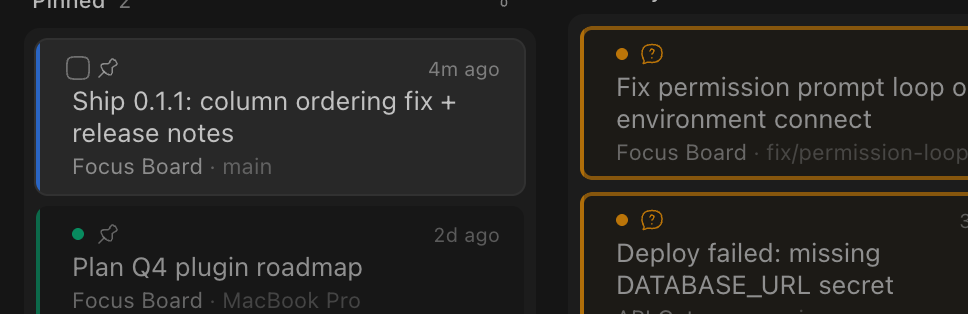
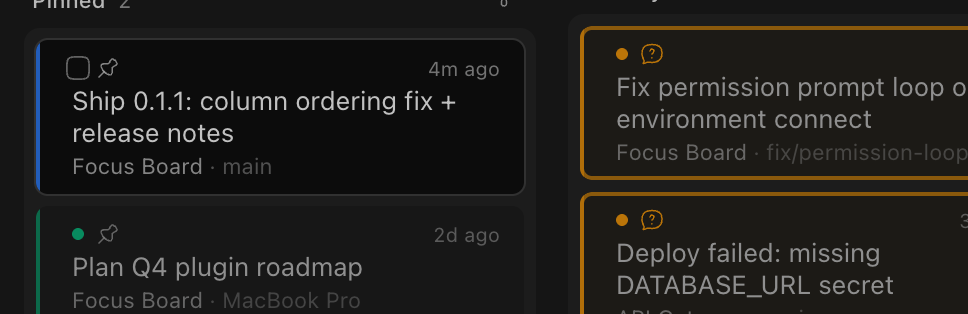
The hovered card darkens below the resting surface for a stronger spotlight

Changed region(s): [[0.031, 0.1146, 0.5579, 0.6306]]

diff --git a/tests/thread-card-hover-surface.test.tsx b/tests/thread-card-hover-surface.test.tsx
@@ -1,18 +1,23 @@
 // @vitest-environment jsdom
-// Hovered-card prominence (issue #123): a card under the pointer must read
-// MORE prominent, not less. The hover style used to swap the card's opaque
-// surface (`bg-card`) for a translucent one (`hover:bg-accent/50`), so the
-// hovered card let the lane background / wallpaper bleed through — it faded.
-// The fix keeps the hovered surface opaque and, in the same spirit as the
-// wallpaper-contrast floor, marks faded cards (done / dimmed / snoozed) so a
-// board-root spotlight can recede the OTHER cards without ever stacking a
-// second dim on top of the existing scrim / opacity system.
+// Hovered-card prominence (issue #123, then the #123 follow-up): a card under
+// the pointer must read MORE prominent, not less. The hover style used to swap
+// the card's opaque surface (`bg-card`) for a translucent one
+// (`hover:bg-accent/50`), so the hovered card let the lane background /
+// wallpaper bleed through — it faded. The fix keeps the hovered surface
+// opaque; the follow-up darkens it below the resting surface (mixing the card
+// token toward black — `accent` only reads as MORE contrast in the light
+// theme, while in the dark theme it LIGHTENED the hovered card), in the same
+// spirit as the wallpaper-contrast floor: faded cards (done / dimmed /
+// snoozed) get marked so a board-root spotlight can recede the OTHER cards
+// without ever stacking a second dim on top of the existing scrim / opacity
+// system.
 import { afterEach, describe, expect, it, vi } from "vitest";
 import { cleanup, render } from "@testing-library/react";
 import type { ComponentProps } from "react";
 import type { PluginSidebarThread } from "@get-bb/plugin-sdk/app";
 import {
   CARD_SPOTLIGHT_CLASSES,
+  HOVER_SURFACE,
   ThreadCard,
 } from "../components/thread-card";
 import { Board } from "../components/board";
@@ -54,8 +59,19 @@ describe("the hovered card's surface (issue #123)", () => {
   it("gains an OPAQUE hover surface — translucent accent never lands on the card", () => {
     renderCard();
     expect(tokens()).toContain("bg-card");
-    expect(tokens()).toContain("hover:bg-accent");
-    expect(tokens().some((t) => t.startsWith("hover:bg-accent/"))).toBe(false);
+    expect(tokens()).toContain(HOVER_SURFACE);
+    expect(tokens().some((t) => t.startsWith("hover:bg-accent"))).toBe(false);
+  });
+
+  it("the hover surface derives from the card token, DARKER than the rest state", () => {
+    // Mixing `--card` toward black: the hovered surface darkens below the
+    // resting surface in BOTH themes (dark: 19.5% -> ~15.6%, light: 98.5% ->
+    // ~78.8%), the direction `accent` cannot deliver — accent is ink-ward, so
+    // on a dark canvas it LIGHTENED the hovered card (27.5% over 19.5%).
+    renderCard();
+    expect(HOVER_SURFACE).toBe(
+      "hover:bg-[color-mix(in_oklab,var(--card)_80%,black)]",
+    );
   });
 
   it("keeps the ring emphasis on hover", () => {
@@ -73,10 +89,10 @@ describe("the hovered card's surface (issue #123)", () => {
     );
   });
 
-  it("keeps the opaque hover surface on a done card (its own dim stays in charge)", () => {
+  it("keeps the opaque, darker hover surface on a done card (its own dim stays in charge)", () => {
     renderCard({ isDone: true });
-    expect(tokens()).toContain("hover:bg-accent");
-    expect(tokens().some((t) => t.startsWith("hover:bg-accent/"))).toBe(false);
+    expect(tokens()).toContain(HOVER_SURFACE);
+    expect(tokens().some((t) => t.startsWith("hover:bg-accent"))).toBe(false);
   });
 });
 

diff --git a/components/thread-card.tsx b/components/thread-card.tsx
@@ -207,6 +207,15 @@ export const NESTED_ROWS_SCROLL_THRESHOLD = 5;
  * wearing `data-card-faded` (done / dimmed / snoozed, whose own opacity or
  * under-scrim already fades them — a second dim on top would fight it).
  */
+/** The hovered card's surface, one source of truth: the card token mixed
+ *  toward BLACK — an OPAQUE surface DARKER than the rest state in both themes
+ *  (issue #123 and its follow-up). `accent` was the first cut: it reads
+ *  ink-ward, so on the dark canvas it LIGHTENED the hovered card (27.5% over
+ *  19.5%), the opposite of the prominence the operator asked for. The 80%
+ *  share is the "a bit darker" step; the ring hover emphasis rides along. */
+export const HOVER_SURFACE =
+  "hover:bg-[color-mix(in_oklab,var(--card)_80%,black)]";
+
 export const CARD_SPOTLIGHT_CLASSES = [
   "has-[div[data-thread-card]:hover]:[&_div[data-thread-card]:not(:hover):not([data-sweep-highlighted]):not([data-card-faded])]:opacity-70",
 ].join(" ");
@@ -748,12 +757,13 @@ export function ThreadCard({
         // alone has no opacity to animate, and an armed-rule transition would
         // vanish in the same recalc as the dim it eases.
         "transition-[color,background-color,border-color,outline-color,text-decoration-color,opacity,fill,stroke]",
-        // Hover = MORE prominence, never less (issue #123): an OPAQUE accent
-        // surface, never a translucent background-color on the card itself —
-        // card-level transparency lets the lane background / wallpaper bleed
-        // through (the lesson the wallpaper-contrast under-scrim already
-        // teaches). The ring below carries the emphasis along with it.
-        "hover:bg-accent",
+        // Hover = MORE prominence, never less (issue #123): an OPAQUE surface
+        // DARKER than the rest state (`--card` mixed toward black), never a
+        // translucent background-color on the card itself — card-level
+        // transparency lets the lane background / wallpaper bleed through
+        // (the lesson the wallpaper-contrast under-scrim already teaches).
+        // The ring below carries the emphasis along with it.
+        HOVER_SURFACE,
         // A card with a child section needs bottom padding beyond the body's
         // own 8px: the rows (or the folded strip) would otherwise sit flush
         // against the card's bottom edge.

diff --git a/lib/unreleased-changelog.generated.ts b/lib/unreleased-changelog.generated.ts
@@ -11,7 +11,7 @@ export const UNRELEASED_ITEMS: readonly { text: string; children: string[]; grou
     "group": "Toolbar"
   },
   {
-    "text": "**Hovering a card makes it more prominent, not less.** The hovered card keeps its opaque background instead of going translucent (the lane background and wallpaper no longer bleed through it), and the other cards recede slightly while one is hovered. Done, dimmed, snoozed, and sweep-highlighted cards keep their own fade treatment.",
+    "text": "**Hovering a card makes it more prominent, not less.** The hovered card keeps its opaque background instead of going translucent (the lane background and wallpaper no longer bleed through it), the hover surface darkens below the resting card in both themes for stronger contrast, and the other cards recede slightly while one is hovered. Done, dimmed, snoozed, and sweep-highlighted cards keep their own fade treatment.",
     "children": [],
     "group": "Card hover"
   },

diff --git a/CHANGELOG.md b/CHANGELOG.md
@@ -21,7 +21,7 @@ The format follows [Keep a Changelog](https://keepachangelog.com/en/1.1.0/).
 
 #### Card hover
 
-- **Hovering a card makes it more prominent, not less.** The hovered card keeps its opaque background instead of going translucent (the lane background and wallpaper no longer bleed through it), and the other cards recede slightly while one is hovered. Done, dimmed, snoozed, and sweep-highlighted cards keep their own fade treatment.
+- **Hovering a card makes it more prominent, not less.** The hovered card keeps its opaque background instead of going translucent (the lane background and wallpaper no longer bleed through it), the hover surface darkens below the resting card in both themes for stronger contrast, and the other cards recede slightly while one is hovered. Done, dimmed, snoozed, and sweep-highlighted cards keep their own fade treatment.
 
 #### Board layout
 
